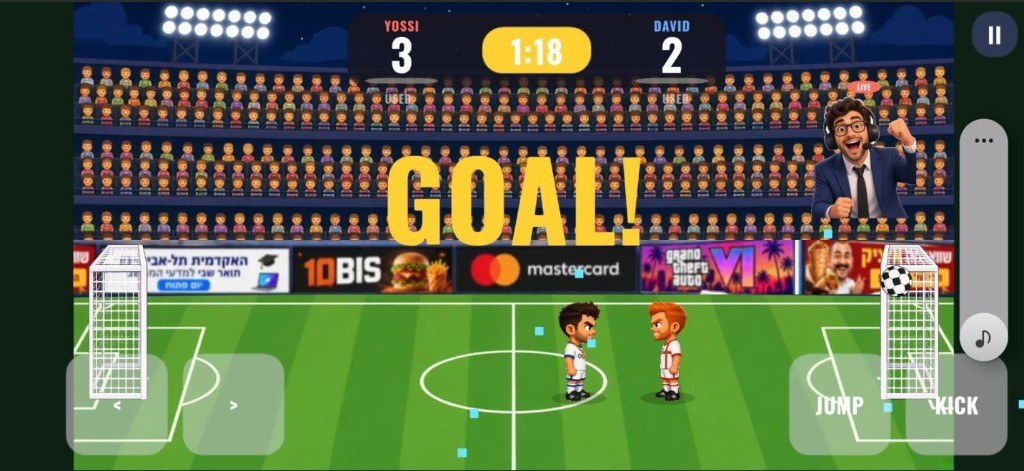
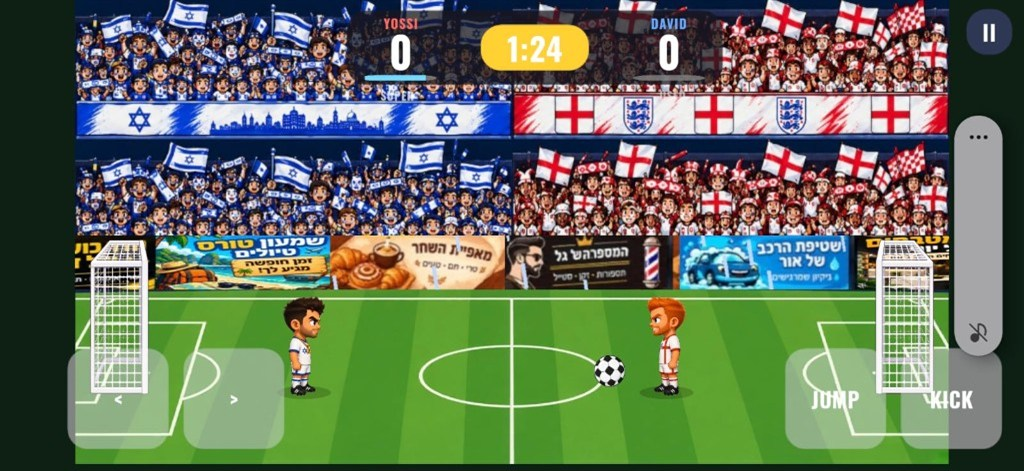
README: the Android shot shows the new advertising board.

diff --git a/README.md b/README.md
@@ -55,7 +55,7 @@ Windows and Android. Both were built and played. Keys on Windows, buttons on the
 </tr>
 <tr>
 <td width="50%"><img src="Docs/images/exe-windows-match.jpg" alt="Windows match: Mikel and Kim in the rain, keyboard play, the commentator in the crowd" width="100%"></td>
-<td width="50%"><img src="Docs/images/android-match.jpg" alt="Android match: on-screen move, JUMP and KICK, pause and sound in the corner" width="100%"></td>
+<td width="50%"><img src="Docs/images/android-match.jpg" alt="Android match: Yossi and David, Israeli crowd on the left and English crowd on the right, the advertising board, on-screen move, JUMP and KICK" width="100%"></td>
 </tr>
 <tr>
 <td width="50%">
